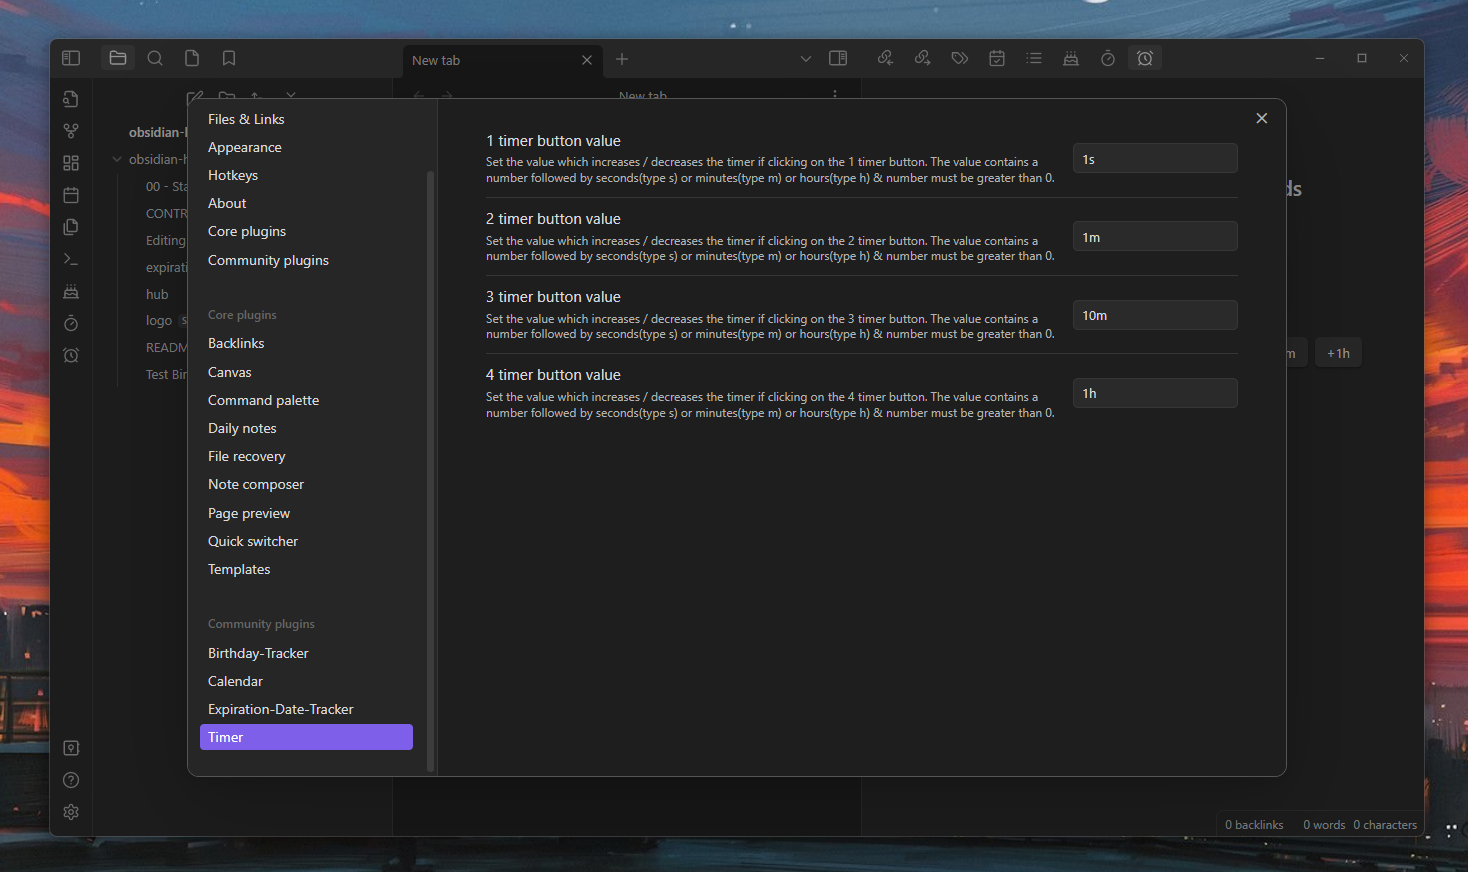
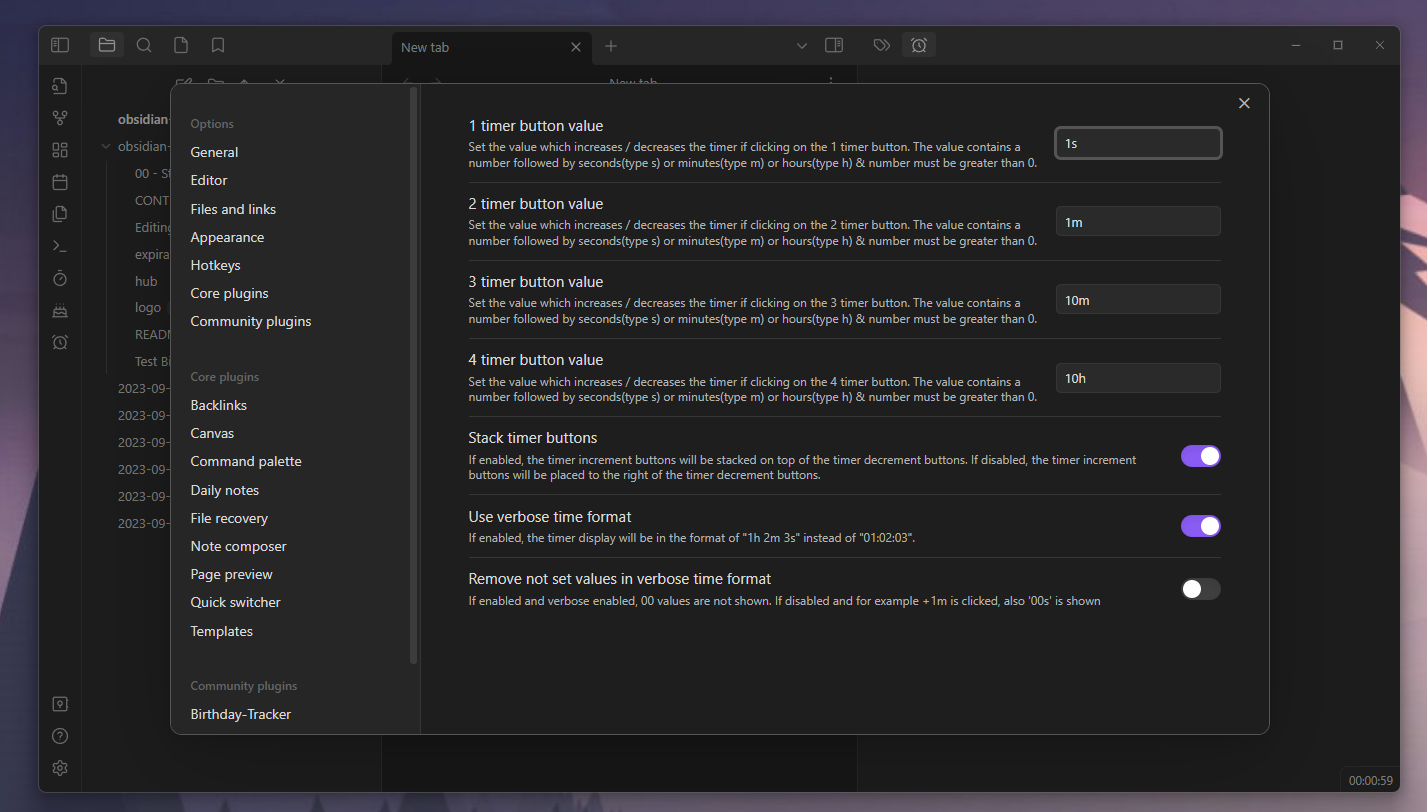
updated settings

diff --git a/README.md b/README.md
@@ -27,4 +27,8 @@ Also you can add a couple of favorite timers, which you often use. You can remov
 ## Settings
 You can set the numbers of the timer buttons in the settings. Also you can insert only seconds/minutes or hours for one button. The number you insert gets an increasing and decreasing button.
 
+You can also stack the timer buttons over each other.
+
+Also it's possible to use another time format displayed in the ui. Default is shown in the screenshot on the top. But you can also enable verbose format and directly see the numbers: ``12m 00s``. If you wanna get rid of the ``00s`` you can enable the last setting 'Remove not set values in verbose time format' to get ``12m``
+
 ![Settings Demo image](assets/SettingsDemo.png)
